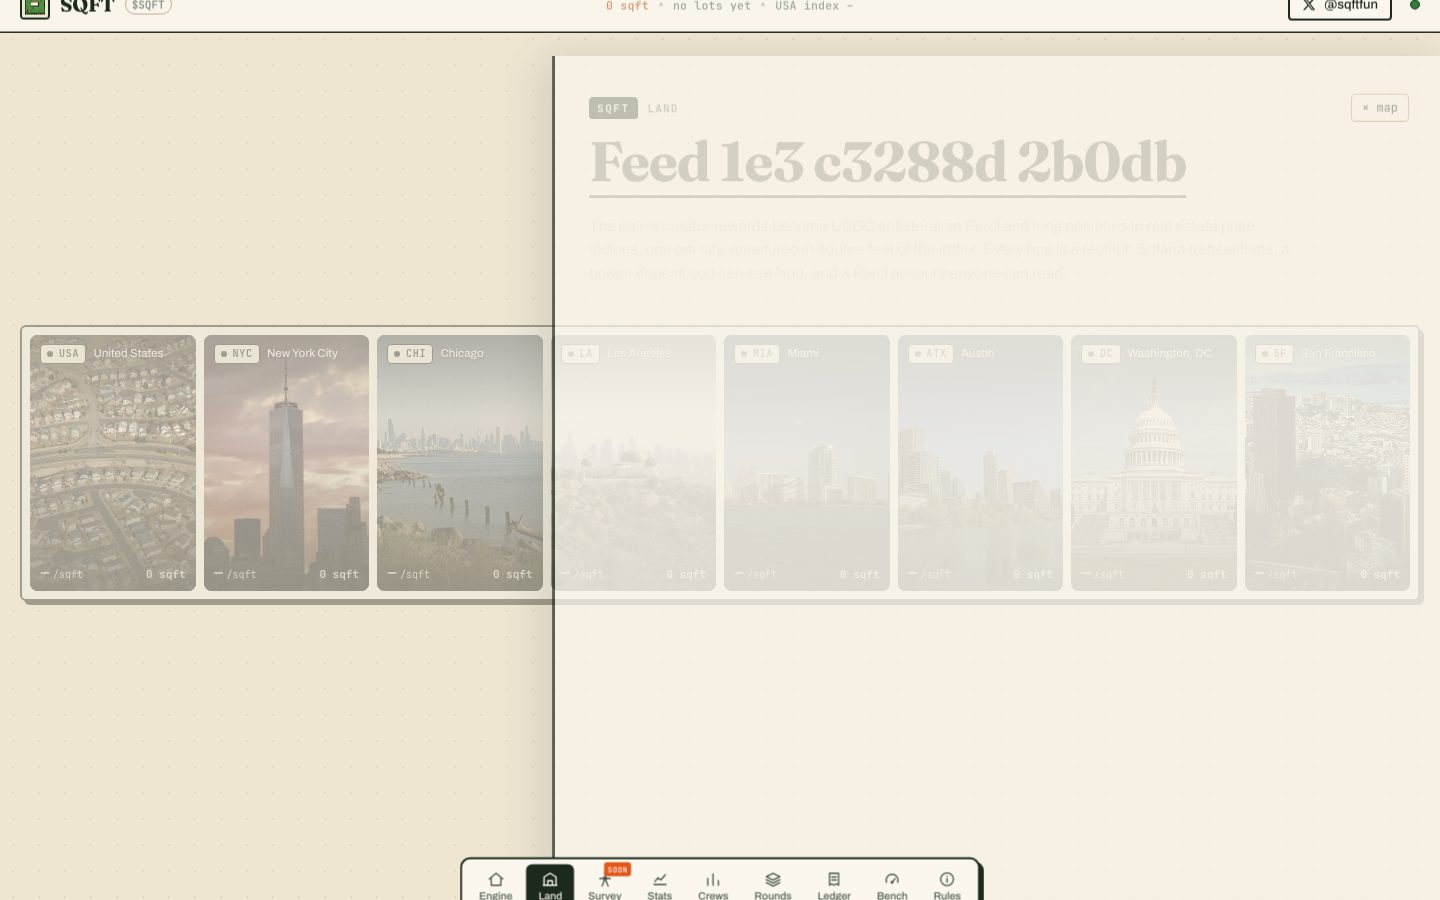
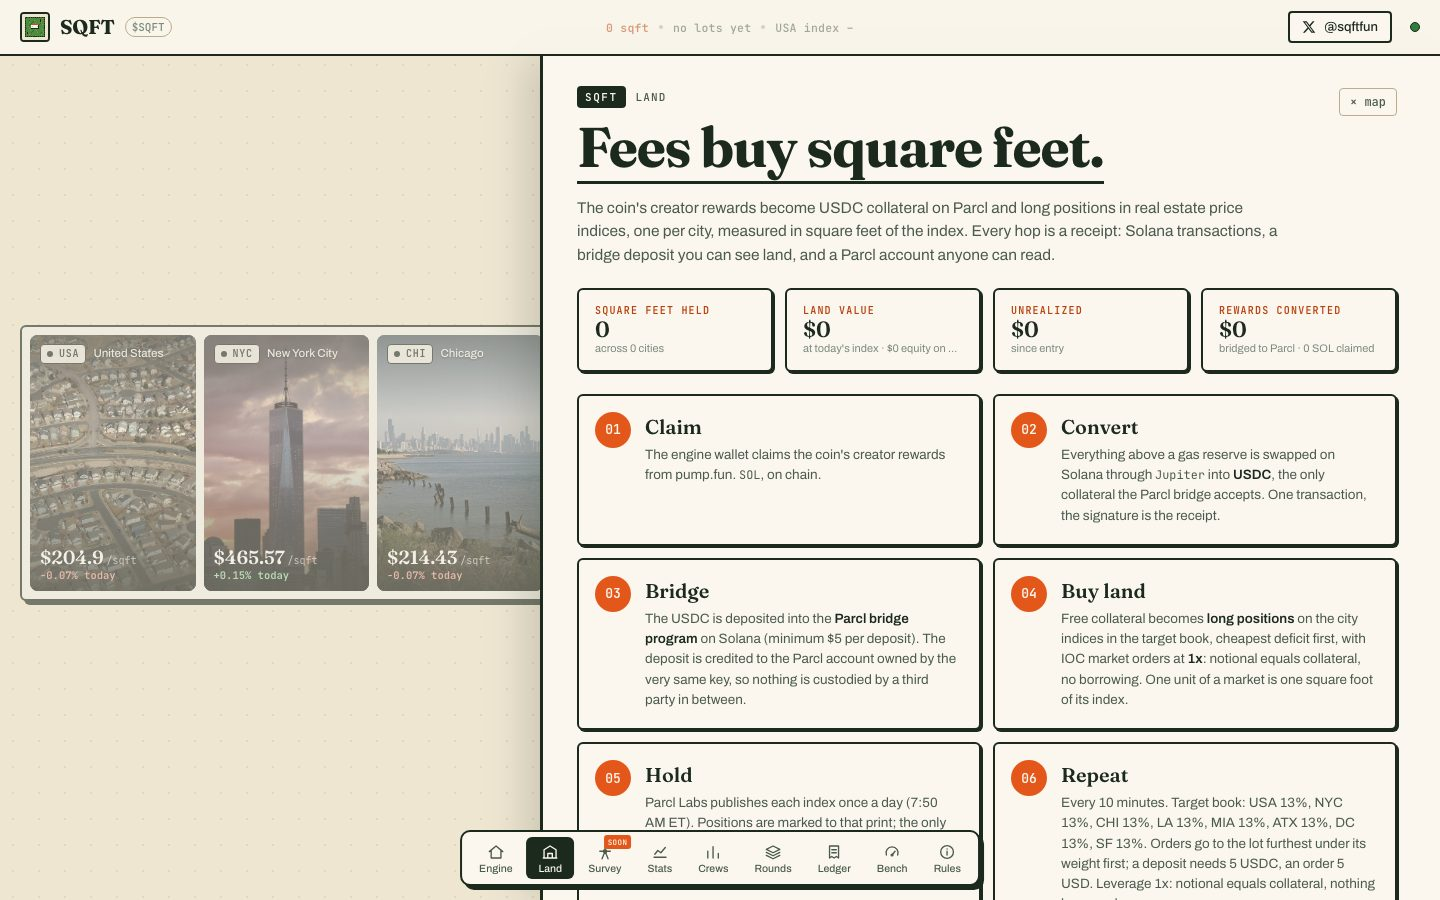
Card strip polish: hide empty holdings on narrow cards, ?still=1 for screenshots, strip fed from /land

Changed region(s): [[0.0, 0.0, 1.0, 1.0], [0.9375, 0.0933, 0.9688, 0.1244]]

diff --git a/public/style.css b/public/style.css
@@ -89,7 +89,7 @@ body.backdrop .land { filter: saturate(.75) brightness(.96); }
 @keyframes lot-flash { 0% { opacity: .55; } 100% { opacity: 0; } }
 .lotcard .floater { left: auto; right: 10px; top: 36px; color: #fff; font-size: 13px; text-shadow: 0 1px 3px rgba(0,0,0,.6); }
 .lotcard { container-type: inline-size; }
-@container (max-width: 200px) { .lotcard .held small, .lotcard .trend { display: none; } .lotcard .held b { font-size: 11px; } }
+@container (max-width: 200px) { .lotcard .held small, .lotcard .trend { display: none; } .lotcard .held b { font-size: 11px; } .lotcard.empty .held { display: none; } }
 @container (max-width: 140px) { .lotcard .city { display: none; } .lotcard .price b { font-size: 16px; } }
 .land.sweep::after { content: ''; position: absolute; inset: 0; pointer-events: none; background: linear-gradient(90deg, transparent, rgba(228,87,27,.35), transparent) 0 0 / 30% 100% no-repeat; animation: sweep 1.2s var(--ease); }
 body.backdrop::before { content: ''; position: fixed; inset: 0; z-index: 4; background: rgba(239, 230, 210, .42); pointer-events: none; }
@@ -545,3 +545,6 @@ h2.section { font: 600 22px var(--serif); letter-spacing: -.01em; margin: 26px 0
 .credits li:last-child { border-bottom: 0; }
 .credits li b { color: var(--ink); }
 .credits a { color: var(--accent-2); }
+
+/* ?still=1: freeze all motion (screenshots) */
+body.still *, body.still *::before, body.still *::after { animation: none !important; transition: none !important; }

diff --git a/public/app.js b/public/app.js
@@ -21,6 +21,7 @@ let earned = null;     // balance + pending + paid at the last poll, to spot new
 const R = (id, v) => roll($(id), v);
 
 ripples('.go, .icon-btn, .tabs button');
+if (new URLSearchParams(location.search).has('still')) document.body.classList.add('still');   // ?still=1: no motion, for screenshots
 
 const scene = new LotStrip($('pit'));
 globalThis.__lots = scene;   // for debugging from the console
@@ -288,6 +289,7 @@ async function loadLand() {
   let d;
   try { d = await getJson('/api/engine'); } catch { return; }
   const { config: c, live: l, totals: t, ledger: L, land: Ld } = d;
+  feedStrip(Ld);
   const row = (k, v) => `<div><span>${k}</span><b>${v}</b></div>`;
   R('ldSqft', sqft(Ld.sqft)); setText('ldSqftSub', `across ${Ld.cities} ${Ld.cities === 1 ? 'city' : 'cities'}${Ld.reserved_sqft > 0 ? ` · ${sqft(Ld.reserved_sqft)} sqft under contract` : ''}`);
   R('ldValue', usd(Ld.notional)); setText('ldValueSub', `at today's index · ${usd(Ld.equity)} equity on Parcl`);

diff --git a/public/fx.js b/public/fx.js
@@ -34,7 +34,7 @@ const scrambling = new WeakMap();
 export function scramble(el, text = el.dataset.text ?? el.textContent, ms = 520) {
   if (!el) return;
   el.dataset.text = text;
-  if (REDUCED) { el.textContent = text; return; }
+  if (REDUCED || document.body.classList.contains('still')) { el.textContent = text; return; }
   cancelAnimationFrame(scrambling.get(el));
   const start = performance.now();
   const step = now => {
